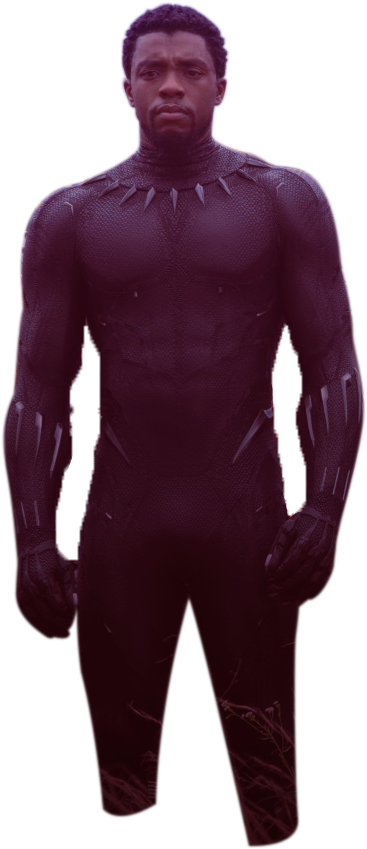
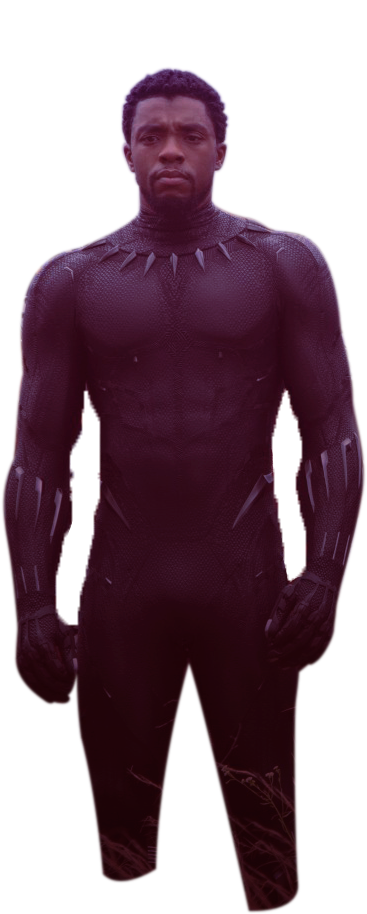
Laptop Home Responsive

diff --git a/src/settings/breakpoints.scss b/src/settings/breakpoints.scss
@@ -1,17 +1,31 @@
-@mixin breakpoint($point) {
-  @if $point == desktop {
-    @media (min-width: 70em) { @content ; }
- }
-  @else if $point == laptop {
-    @media (min-width: 64em) { @content ; }
- }
-   @else if $point == tablet {
-    @media (min-width: 50em) { @content ; }
- }
-  @else if $point == phablet {
-    @media (min-width: 37.5em)  { @content ; }
- }
- @else if $point == mobileonly {
-    @media (max-width: 37.5em)  { @content ; }
- }
+@mixin respond($breakpoint) {
+    @if $breakpoint==desktop {
+        @media only screen and (max-width: 1960px) {
+            @content;
+        }
+    }
+
+    @if $breakpoint==laptop or $breakpoint==tablet-landscape {
+        @media only screen and (max-width: 1600px) and (orientation: landscape) {
+            @content;
+        }
+    }
+
+    @if $breakpoint==tablet-portrait {
+        @media only screen and (max-width: 992px) and (orientation: portrait) {
+            @content;
+        }
+    }
+
+    @if $breakpoint==mobile {
+        @media only screen and (max-width: 480px) and (orientation: portrait) {
+            @content;
+        }
+    }
+
+    @if $breakpoint==mini-mobile {
+        @media only screen and (max-width: 320px) and (orientation: portrait) {
+            @content;
+        }
+    }
 }

diff --git a/src/pages/Home/contents/WakandaSection/WakandaSection.jsx b/src/pages/Home/contents/WakandaSection/WakandaSection.jsx
@@ -65,12 +65,12 @@ const WakandaSection = ({ visible }) => {
 
     let blackPantherVariants = {
         enter: {
-            x: -500,
+            x: -400,
             y: 0,
             transition,
         },
         exit: {
-            x: -500,
+            x: -400,
             y: 150,
             transition,
         },
@@ -112,7 +112,12 @@ const WakandaSection = ({ visible }) => {
                 variants={blackPantherVariants}
                 src={`${process.env.PUBLIC_URL}/assets/Backgrounds/Wakanda/BlackPanther.png`}
             />
-            <motion.h1 className="BigTitle" initial="exit" animate="enter" variants={titleVariants}>
+            <motion.h1
+                className={styles.BigTitle}
+                initial="exit"
+                animate="enter"
+                variants={titleVariants}
+            >
                 INFINITY WAR
             </motion.h1>
             <motion.div

diff --git a/src/pages/Home/contents/NYSacntumSection/NYSanctumSection.jsx b/src/pages/Home/contents/NYSacntumSection/NYSanctumSection.jsx
@@ -1,6 +1,8 @@
 import React from "react";
 import { motion } from "framer-motion";
 
+import styles from "./NYSanctumSection.module.scss";
+
 import Background from "../../../../components/Background";
 import TrapezoidButton from "../../../../components/UI/TrapezoidButton/index.js";
 
@@ -33,9 +35,7 @@ const NYSanctumSection = () => {
                 variants={drStrangeVariants}
                 src={`${process.env.PUBLIC_URL}/assets/Backgrounds/NewYorkSanctum/DoctorStrange.png`}
             />
-            <h1 className="BigTitle" style={{ fontSize: "9em", top: "1em" }}>
-                DOCTOR STRANGE
-            </h1>
+            <h1 className={styles.BigTitle}>DOCTOR STRANGE</h1>
             <div className="TextContainer">
                 <h2>Y harán todo lo posible para salvar el futuro de la humanidad</h2>
                 <TrapezoidButton to="trailer">VER TRAILER</TrapezoidButton>

diff --git a/src/pages/Home/contents/TitanSection/TitanSection.jsx b/src/pages/Home/contents/TitanSection/TitanSection.jsx
@@ -14,14 +14,14 @@ const TitanSection = () => {
     let thanosVariants = {
         enter: {
             x: -250,
-            y: 300,
-            scale: 0.6,
+            y: 0,
+            scale: 1,
             transition,
         },
         exit: {
             x: -250,
             y: 400,
-            scale: 0.6,
+            scale: 1,
             transition,
         },
     };
@@ -44,9 +44,7 @@ const TitanSection = () => {
                 variants={thanosVariants}
                 src={`${process.env.PUBLIC_URL}/assets/Backgrounds/Titan/Thanos.png`}
             />
-            <h1 className="BigTitle" style={{ fontSize: "14em", top: "0.25em" }}>
-                THANOS
-            </h1>
+            <h1 className={styles.BigTitle}>THANOS</h1>
             <motion.div
                 className="TextContainer"
                 initial="exit"

diff --git a/src/pages/Home/Home.module.scss b/src/pages/Home/Home.module.scss
@@ -1,5 +1,6 @@
 @import "./../../settings/global.scss";
 @import "./../../settings/layers.scss";
+@import "./../../settings/breakpoints.scss";
 
 :global(.PageContent) {
     padding: 3em 5em;
@@ -28,20 +29,12 @@
     justify-content: center;
 }
 
-:global(.BigTitle) {
-    position: absolute;
-    z-index: $z-page;
-    font-size: 12em;
-    font-weight: bold;
-    text-transform: uppercase;
-    margin: 0;
-    top: 0.5em;
-}
-
 :global(.Character) {
     position: absolute;
     z-index: zPushUp($z-page, 10);
-    bottom: 0;
+    bottom: -100px;
+
+    height: 100%;
 }
 
 :global(.Background) {
@@ -63,6 +56,10 @@
 :global(.TextContainer) {
     text-align: center;
     z-index: zPushUp($z-page, 10);
+
+    @include respond(laptop) {
+        font-size: 0.8em;
+    }
 
     p {
         font-size: 1.2em;

diff --git a/src/pages/Cast/Character/Character.jsx b/src/pages/Cast/Character/Character.jsx
@@ -99,7 +99,7 @@ const Character = ({ name, description, background, photo, position, color }) =>
                 transition={transition}
                 className={`${styles.Image} ${styles[titleize(position)]}`}
             >
-                <img src={`${process.env.PUBLIC_URL}/assets/${photo}`} />
+                <img src={`${process.env.PUBLIC_URL}/assets/${photo}`} rel="preload" />
             </motion.div>
             <Background src={background} blur="5px" />
         </>

diff --git a/src/components/Background/Background.jsx b/src/components/Background/Background.jsx
@@ -38,7 +38,11 @@ const Background = ({ src, blur }) => {
             variants={variants}
             className={styles.Background}
         >
-            <StyledBackground src={`${process.env.PUBLIC_URL}/assets/${src}`} blur={blurProp} />
+            <StyledBackground
+                src={`${process.env.PUBLIC_URL}/assets/${src}`}
+                blur={blurProp}
+                rel="preload"
+            />
         </motion.div>
     );
 };

diff --git a/src/pages/Home/contents/TitanSection/TitanSection.module.scss b/src/pages/Home/contents/TitanSection/TitanSection.module.scss
@@ -1,0 +1,21 @@
+@import "../../../../settings/breakpoints.scss";
+@import "../../../../settings/layers.scss";
+
+.BigTitle {
+    position: absolute;
+    z-index: $z-page;
+    top: 0.25em;
+
+    @include respond(desktop) {
+        font-size: 14em;
+    }
+
+    @include respond(laptop) {
+        font-size: 8em;
+    }
+
+    font-weight: bold;
+    text-transform: uppercase;
+    margin: 0;
+    top: 0.5em;
+}

diff --git a/src/pages/Home/contents/NYSacntumSection/NYSanctumSection.module.scss b/src/pages/Home/contents/NYSacntumSection/NYSanctumSection.module.scss
@@ -4,14 +4,14 @@
 .BigTitle {
     position: absolute;
     z-index: $z-page;
-    top: 0.25em;
+    top: 1em;
 
     @include respond(desktop) {
-        font-size: 12em;
+        font-size: 9em;
     }
 
     @include respond(laptop) {
-        font-size: 8em;
+        font-size: 7em;
     }
 
     font-weight: bold;
